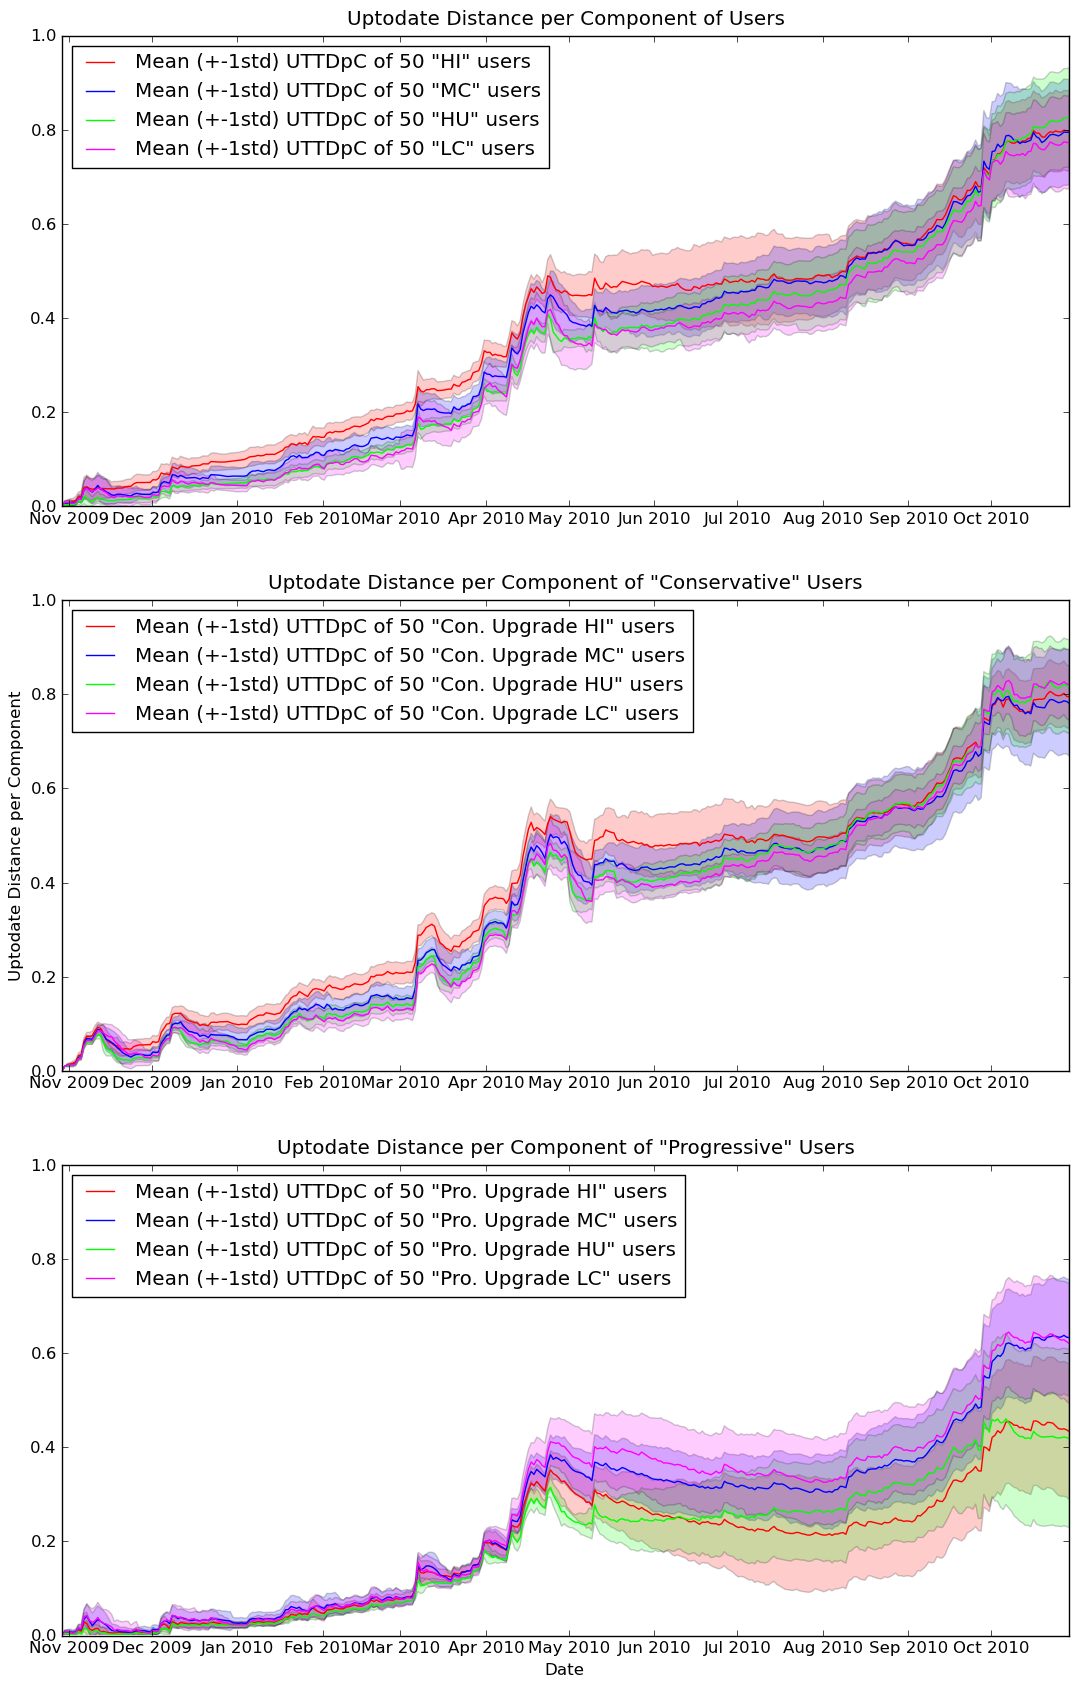
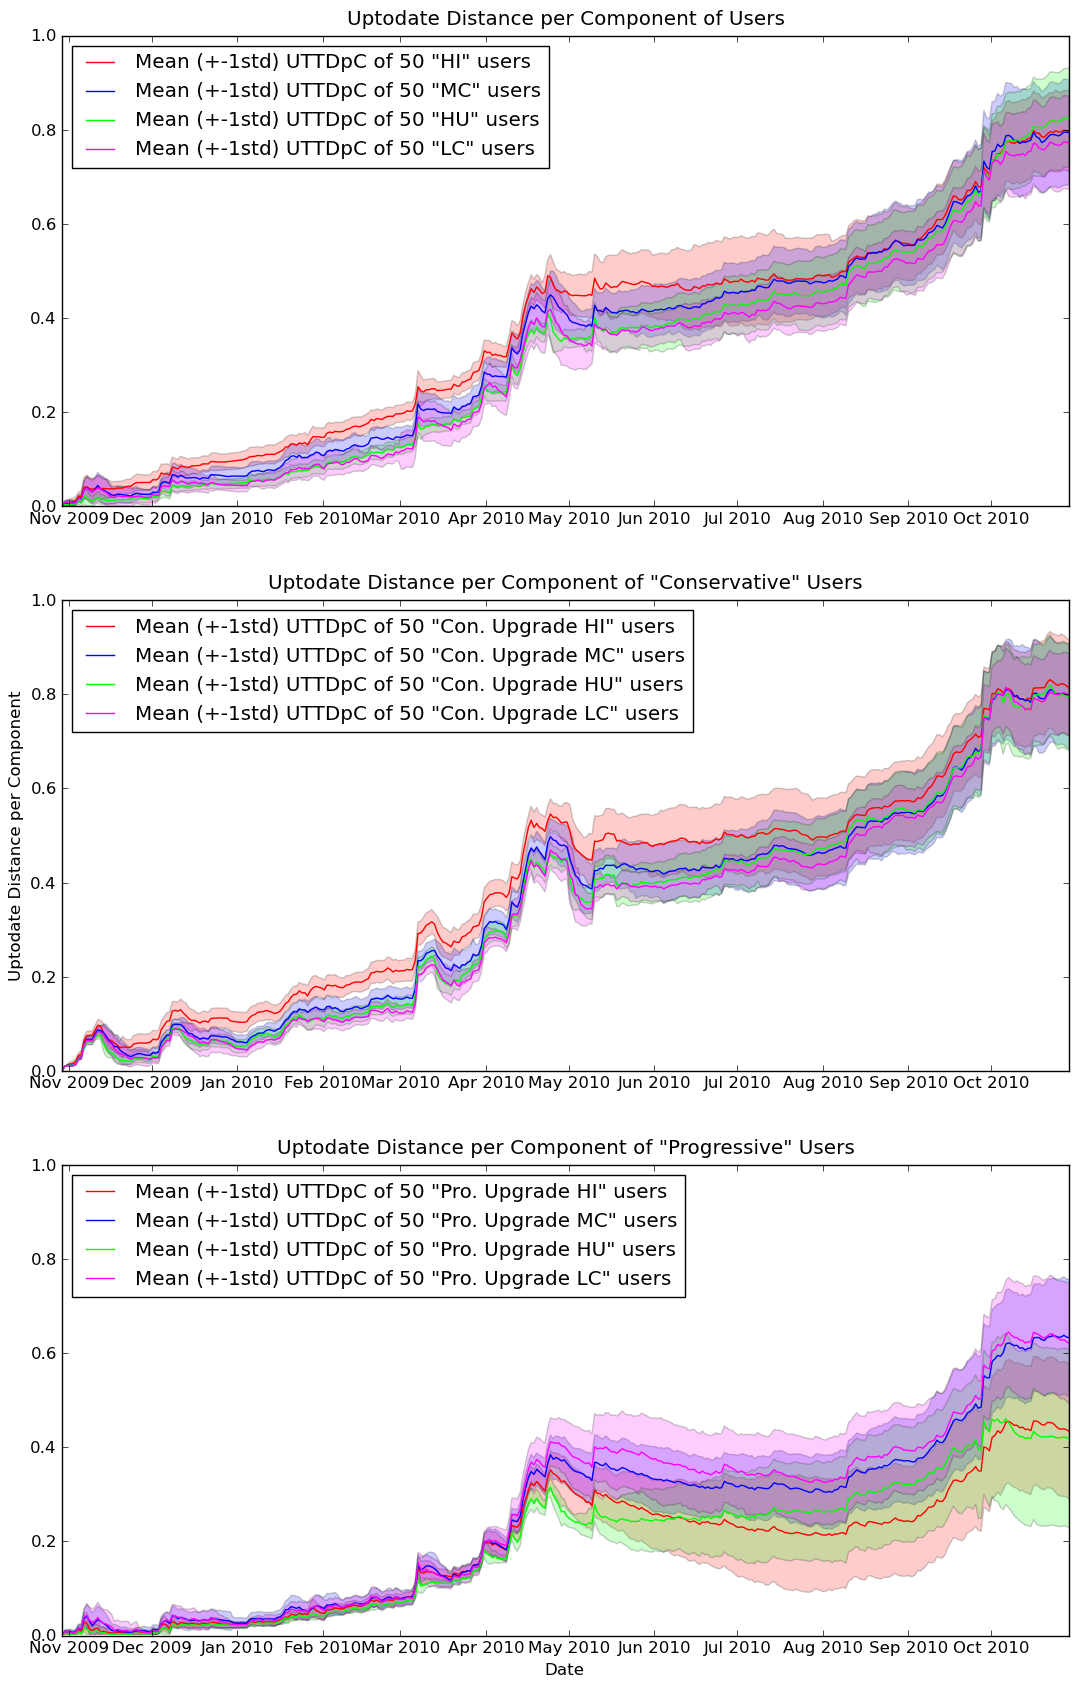
All the cache

Changed region(s): [[0.0918, 0.3703, 1.0, 0.6481]]

diff --git a/UbuntuSimulationAnalysis/aq6.py b/UbuntuSimulationAnalysis/aq6.py
@@ -41,8 +41,8 @@ hus = [("Upgrade HU", hu, "#FF0000"),("Con. Upgrade HU", chu, "#00FF00"),("Pro. 
 mcs = [("Upgrade MC", mc, "#FF0000"),("Con. Upgrade MC", cmc, "#00FF00"),("Pro. Upgrade MC", pmc, "#0000FF")]
 lcs = [("Upgrade LC", lc, "#FF0000"),("Con. Upgrade LC", clc, "#00FF00"),("Pro. Upgrade LC", plc, "#0000FF")]
 
-
-# High install 	0.42159     0.7638915 
+#						UU
+# High install 	0.42159     0.7638915  		.
 # Medium change 0.22202257  0.25948714
 # High update 	0.5610895   0.1918915 
 # Low change  	0.18629183  0.08623483
@@ -223,41 +223,36 @@ def plotchange():
 	for name,pf,c in norms: 
 		ivals = map(lambda x : chtt(x),pf)
 		imean,istd,imeanpstd,imeanmstd = multimeanstd(ivals)
-		mdiff = numpy.mean(imean)
-		print "Mean Change",name,mdiff
 		print "Final Change, %s (mean : %f , std %f)  7days (mean : %f , std %f)" % (name, imean[-1],istd[-1], imean[-7],istd[-7])
 		pylab.plot(pallthedays,imean,color=c,label=("Mean (+-1std) Total Change of 50 \"%s\" users" % name))
 	
-	#Final Change, HI (mean : 3176 , std 196)  7days (mean : 3136 , std 186)
-	#Final Change, HU (mean : 2123 , std 135)  7days (mean : 2108 , std 135)
-	#Final Change, MC (mean : 2291 , std 164)  7days (mean : 2271 , std 164)
-	#Final Change, LC (mean : 1903 , std 121)  7days (mean : 1885 , std 120)
-	
-	#Final Change, Con. Upgrade HI (mean : 3089 , std 159)  7days (mean : 3036 , std 164)
-	#Final Change, Con. Upgrade HU (mean : 2091 , std 158)  7days (mean : 2065 , std 161)
-	#Final Change, Con. Upgrade MC (mean : 2267 , std 153)  7days (mean : 2231 , std 149)
-	#Final Change, Con. Upgrade LC (mean : 1822 , std 96)  7days (mean : 1797 , std 98)
-	
-	#HI = 3136 - 3089 = 47
-	#HU = 2108 - 2091 = 17
-	#MC = 2271 - 2267 = 4
-	#LC = 1885 - 1822 = 63
-	
-	#HI, mean uttdpc 0.364631, final val 0.797584
-	#HU, mean uttdpc 0.316690, final val 0.826326
-	#MC, mean uttdpc 0.338309, final val 0.795248
-	#LC, mean uttdpc 0.307916, final val 0.772981
-	
-	#Con. Upgrade HI, mean uttdpc 0.381826, final val 0.794031
-	#Con. Upgrade HU, mean uttdpc 0.343298, final val 0.816037
-	#Con. Upgrade MC, mean uttdpc 0.351951, final val 0.780787
-	#Con. Upgrade LC, mean uttdpc 0.338918, final val 0.820539
-	
-	#Pro. Upgrade HI, mean uttdpc 0.187131, final val 0.432870
-	#Pro. Upgrade HU, mean uttdpc 0.191693, final val 0.418295
-	#Pro. Upgrade MC, mean uttdpc 0.244713, final val 0.632974
-	#Pro. Upgrade LC, mean uttdpc 0.257741, final val 0.620028
+#HI, mean uttdpc 0.364631, final val 0.797584
+#MC, mean uttdpc 0.338309, final val 0.795248
+#HU, mean uttdpc 0.316690, final val 0.826326
+#LC, mean uttdpc 0.307916, final val 0.772981
+#Con. Upgrade HI, mean uttdpc 0.389317, final val 0.811949
+#Con. Upgrade MC, mean uttdpc 0.349597, final val 0.794983
+#Con. Upgrade HU, mean uttdpc 0.338260, final val 0.793794
+#Con. Upgrade LC, mean uttdpc 0.329331, final val 0.799331
+#Pro. Upgrade HI, mean uttdpc 0.187131, final val 0.432870
+#Pro. Upgrade MC, mean uttdpc 0.244713, final val 0.632974
+#Pro. Upgrade HU, mean uttdpc 0.191693, final val 0.418295
+#Pro. Upgrade LC, mean uttdpc 0.257741, final val 0.620028
 
+#Final Change, HI (mean : 3176.460000 , std 196.894511)  7days (mean : 3136.520000 , std 186.116871)
+#Final Change, MC (mean : 2291.140000 , std 164.070474)  7days (mean : 2271.040000 , std 164.721093)
+#Final Change, HU (mean : 2123.320000 , std 135.426207)  7days (mean : 2108.560000 , std 135.422621)
+#Final Change, LC (mean : 1903.140000 , std 121.187955)  7days (mean : 1885.540000 , std 120.392227)
+
+#Final Change, Con. Upgrade HI (mean : 3077.380000 , std 200.017788)  7days (mean : 3015.000000 , std 196.528675)
+#Final Change, Con. Upgrade MC (mean : 2267.980000 , std 171.920038)  7days (mean : 2225.360000 , std 164.580772)
+#Final Change, Con. Upgrade HU (mean : 2124.200000 , std 156.344491)  7days (mean : 2080.980000 , std 147.143262)
+#Final Change, Con. Upgrade LC (mean : 1839.000000 , std 94.992210)  7days (mean : 1815.080000 , std 95.710781)
+
+#HI = 60
+#MC = 4
+#HU = -15
+#
 	
 	pylab.legend(loc="upper left")
 	pylab.title("Total Change of Users")
@@ -274,7 +269,6 @@ def plotchange():
 		ivals = map(lambda x : chtt(x),pf)
 		imean,istd,imeanpstd,imeanmstd = multimeanstd(ivals)
 		mdiff = numpy.mean(imean)
-		print "Mean Change",name,mdiff
 		print "Final Change, %s (mean : %f , std %f)  7days (mean : %f , std %f)" % (name, imean[-1],istd[-1], imean[-7],istd[-7])
 		pylab.plot(pallthedays,imean,color=c,label=("Mean (+-1std) Total Change of 50 \"%s\" users" % name))
 
@@ -294,7 +288,7 @@ def plotchange():
 		ivals = map(lambda x : chtt(x),pf)
 		imean,istd,imeanpstd,imeanmstd = multimeanstd(ivals)
 		mdiff = numpy.mean(imean)
-		print "Mean Change",name,mdiff
+		print "Final Change, %s (mean : %f , std %f)  7days (mean : %f , std %f)" % (name, imean[-1],istd[-1], imean[-7],istd[-7])
 		pylab.plot(pallthedays,imean,color=c,label=("Mean (+-1std) Total Change of 50 \"%s\" users" % name))
 
 	pylab.legend(loc="upper left")

diff --git a/UbuntuSimulationAnalysis/repeatedinstallsgraph.py b/UbuntuSimulationAnalysis/repeatedinstallsgraph.py
@@ -1,10 +1,16 @@
 #!/usr/bin/python
 import os
 from cudfpy import cudfpkg
+import numpy
+import time,datetime
+
+import pylab
+
 start = 1256814000 #one day before first action
 end = 1288410600
 
 initsys = cudfpkg.createProfileChangeRequest("9.10.cudf",nameversiononly=True)
+startdate = datetime.datetime.fromtimestamp(1256900400)
 
 def topnpairs(cudfmap):
 	return set([(n,v) for n in cudfmap.keys() for v in cudfmap[n]])
@@ -21,47 +27,104 @@ def processSolutionsFolder(folder):
 		pcrl[t] = ipcr
 	return pcrl
 	
+def processOutputFile(ofile):
+	of = open(ofile).readlines()
+	t = -1
+	ups = {}
+	group = []
+	for line in of: 
+		line = line.strip()
+		if line == "":
+			#process Group
+			if len(group) > 1:
+				ts = int(group[0][17:27])
+				for l in group:
+					if l.startswith("*grade:"):
+						l = l[8:-1].strip()
+						ps = l.split(",")
+						ps = map(str.strip,ps)
+						if ps == [""]:
+							ps = []
+						ups[ts] = ps
+						
+			group = [] #ends
+		else:
+			group.append(line)
+			
 	
-def updatedPackages(ucudfs):
+	upgrades = []
+	for d in range(0,365):
+		t = int(time.mktime((startdate + datetime.timedelta(days=d)).timetuple()))
+		if t in sorted(ups.keys()):
+			upgrades.append(ups[t])
+		else:
+			upgrades.append([])
+	return upgrades
 	
-	cudfs = sorted(map(lambda x: (x[0],x[1].toMap()),ucudfs.items()),key=lambda x: x[0])
-	deltas = zip(cudfs[:-1],cudfs[1:])
-	def updated(((t1,prevcudf),(t2,newcudf))):
-		pnv = topnpairs(prevcudf)
-		nnv = topnpairs(newcudf)
-		
-		newpacks = nnv - pnv
-		updatedpacks = []
-		for p in newpacks:
-			if p[0] in prevcudf.keys():
-				updatedpacks.append(p[0])
-		return updatedpacks
-	
-	return map(updated,deltas) 
-	
-	
-cudfs = processSolutionsFolder("q1a/alwaysupdate.user.sols")
-cudfs[start] = initsys
 
-up = updatedPackages(cudfs)
-
-daystill = []
-for i in range(len(up)):
-	for p in up[i]:
-		#find the next upgrade
-		for diff in range(i+1,len(up)):
-			if p in up[diff]:
-				daystill.append(diff-i)
-				if diff-i <= 7:
-					print p
-				break;
-
-arr = [0]*(max(daystill)+1)
-
-for i in daystill:
-	arr[i] += 1
+def countallrepeats(ofile):
+	up = processOutputFile(ofile)
 	
-for i in range(30):
-	pass
-	print i," sum", sum(arr[:i+1])
+	daystill = []
+	xy = 0
+	for i in range(len(up)):
+		for p in up[i]:
+			#find the next upgrade
+			for diff in range(i+1,len(up)):
+				if p in up[diff]:
+					daystill.append(diff-i)
+					if diff-i <= 14:
+						xy +=1
+					break;
+
+	
+	
+	arr = [0]*(max(daystill)+1)
+	for i in daystill:
+		arr[i] += 1
+	dds = []
+	
+	for s in range(1,28):
+		dds.append(sum(arr[:s]))
+	
+	return dds
+
+def countrepeats(ofile,days):
+	return countallrepeats(ofile)[days]
+
+
+assert countrepeats("q1a/alwaysupdate.user.out",7) == 23
+
+
+hir = []
+hur = []
+mcr = []
+lcr = []
+for i in range(1,51):
+	hir.append(countallrepeats("q3/highinstall-%d.user.out" % i))
+	lcr.append(countallrepeats("q3/lowchange-%d.user.out" % i))
+	hur.append(countallrepeats("q3/highupdate-%d.user.out" % i))
+	mcr.append(countallrepeats("q3/mediumchange-%d.user.out" % i))
+
+mhir = numpy.mean(hir,axis=0)
+mhur = numpy.mean(hur,axis=0)
+mmcr = numpy.mean(mcr,axis=0)
+mlcr = numpy.mean(lcr,axis=0)
+
+
+pylab.plot(mhir,label="HI")
+pylab.plot(mhur,label="HU")
+pylab.plot(mmcr,label="MC")
+pylab.plot(mlcr,label="LC")
+pylab.plot(countallrepeats("q1a/alwaysupdate.user.out"),label="AU")
+pylab.xlabel("Days")
+pylab.ylabel("")
+
+pylab.title("Unstable Package Installs for Users")
+
+pylab.legend(loc="upper left")
+
+#this shows that a user who installs frequently 
+pylab.show()
+
 	

diff --git a/UbuntuSimulationAnalysis/usercache.py b/UbuntuSimulationAnalysis/usercache.py
@@ -133,8 +133,8 @@ users = []
 #users += getUsers("q4a")
 #users += getUsers("q1a")
 #users += getUsers("q1b")
-users += getUsers("q5a")
-#users += getUsers("q6")
+#users += getUsers("q5a")
+users += getUsers("q6")
 for u in sorted(users):
 	print u
 	cacheuser(u)
